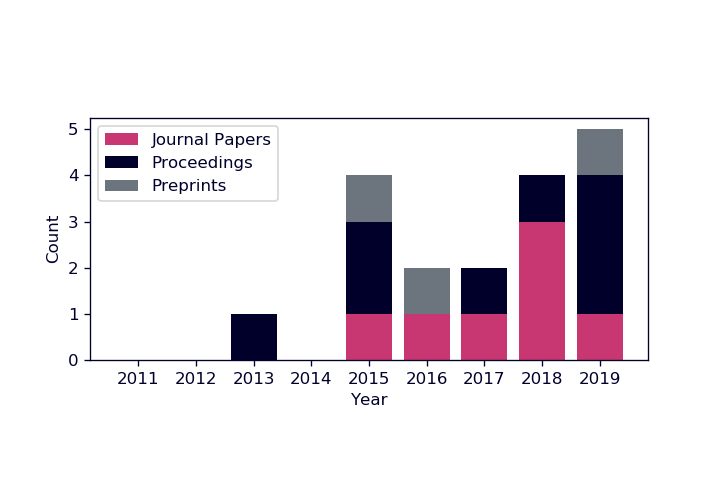
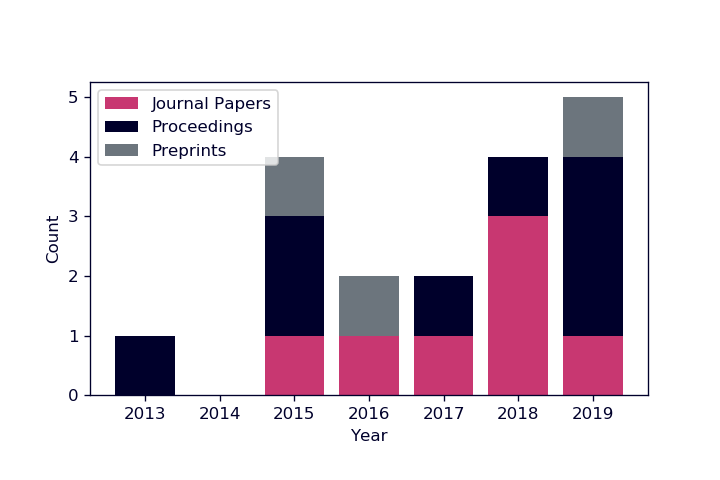
Better timeline for papers

Changed region(s): [[0.0917, 0.1562, 0.9167, 0.9375], [0.0917, 0.5312, 0.1222, 0.5938], [0.0917, 0.4375, 0.1222, 0.4688]]

diff --git a/create_plots.py b/create_plots.py
@@ -1,47 +1,52 @@
-import pandas as pd
-import matplotlib as mpl
-import matplotlib.pyplot as plt
+    import pandas as pd
+    import matplotlib as mpl
+    import matplotlib.pyplot as plt
 
-#Utility to edit the color of plot
+    #Utility to edit the color of plot
 
-def change_color(color):
-    mpl.rcParams['text.color'] = color
-    mpl.rcParams['axes.labelcolor'] = color
-    mpl.rcParams['xtick.color'] = color
-    mpl.rcParams['ytick.color'] = color
-    mpl.rcParams['spines.edgecolor']= color
-change_color("#00002B")
+    def change_color(color):
+        mpl.rcParams['text.color'] = color
+        mpl.rcParams['axes.labelcolor'] = color
+        mpl.rcParams['axes.edgecolor'] = color
+        mpl.rcParams['xtick.color'] = color
+        mpl.rcParams['ytick.color'] = color
+    change_color("#00002B")
 
-#Reads the CV
-df=pd.read_excel('data/CV.xlsx',sheet_name="ScientificPublication",header=1,skiprows=0)
-df.date=pd.to_numeric(df.date)
-print(df.info())
+    #Reads the CV
+    df=pd.read_excel('data/CV.xlsx',sheet_name="ScientificPublication",header=1,skiprows=0)
+    df.date=pd.to_numeric(df.date)
+    print(df.info())
 
-#Masks for selecting only papers or proceedings
-papers_mask=df['status']=="Journal"
-proc_mask=df['status']=="Proceedings"
-preprint_mask=df['status']=='Preprint'
+    #Masks for selecting only papers or proceedings
+    papers_mask=df['status']=="Journal"
+    proc_mask=df['status']=="Proceedings"
+    preprint_mask=df['status']=='Preprint'
 
-#Create the dataframes for papers and proceedings
-papers=df[papers_mask]
-proc=df[proc_mask]
-preprints=df[preprint_mask]
+    #Create the dataframes for papers and proceedings
+    papers=df[papers_mask]
+    proc=df[proc_mask]
+    preprints=df[preprint_mask]
 
-#Count per year
-years=range(2011,2020,1)
-papers_peryear=papers.groupby('date').count().reindex(years, fill_value=0)
-proc_peryear=proc.groupby('date').count().reindex(years, fill_value=0)
-preprint_peryear=preprints.groupby('date').count().reindex(years, fill_value=0)
+    #Count per year
+    years=range(2011,2020,1)
+    papers_peryear=papers.groupby('date').count().reindex(years, fill_value=0)
+    proc_peryear=proc.groupby('date').count().reindex(years, fill_value=0)
+    preprint_peryear=preprints.groupby('date').count().reindex(years, fill_value=0)
 
-#Create the plot
-plt.bar(years,papers_peryear['id'], label='Journal Papers', color="#C83771")
-plt.bar(years,proc_peryear['id'], bottom=papers_peryear['id'], label='Proceedings', color="#00002B")
-plt.bar(years,preprint_peryear['id'], bottom=papers_peryear['id']+proc_peryear['id'], label='Preprints', color="#6c757d")
+    #Create the plot
+    # plt.bar(years,papers_peryear['id'], label='Journal Papers', color="#C83771")
+    # plt.bar(years,proc_peryear['id'], bottom=papers_peryear['id'], label='Proceedings', color="#00002B")
+    # plt.bar(years,preprint_peryear['id'], bottom=papers_peryear['id']+proc_peryear['id'], label='Preprints', color="#6c757d")
 
-plt.colors
-plt.xticks(years)
-plt.ylabel('Count')
-plt.legend(loc='best',facecolor="white")
-plt.gca().set_aspect(0.8)
-plt.savefig('Publications.png',dpi=120,transparent=True)
-plt.show()
+    plt.bar(years,papers_peryear['id'], label='Journal Papers')
+    plt.bar(years,proc_peryear['id'], bottom=papers_peryear['id'], label='Proceedings')
+    plt.bar(years,preprint_peryear['id'], bottom=papers_peryear['id']+proc_peryear['id'], label='Preprints')
+
+    plt.colors
+    plt.xticks(years)
+    plt.xlabel('Year')
+    plt.ylabel('Count')
+    plt.legend(loc='best',facecolor="white")
+    plt.gca().set_aspect(0.8)
+    # plt.savefig('papers.png',dpi=120,transparent=True)
+    plt.show()
